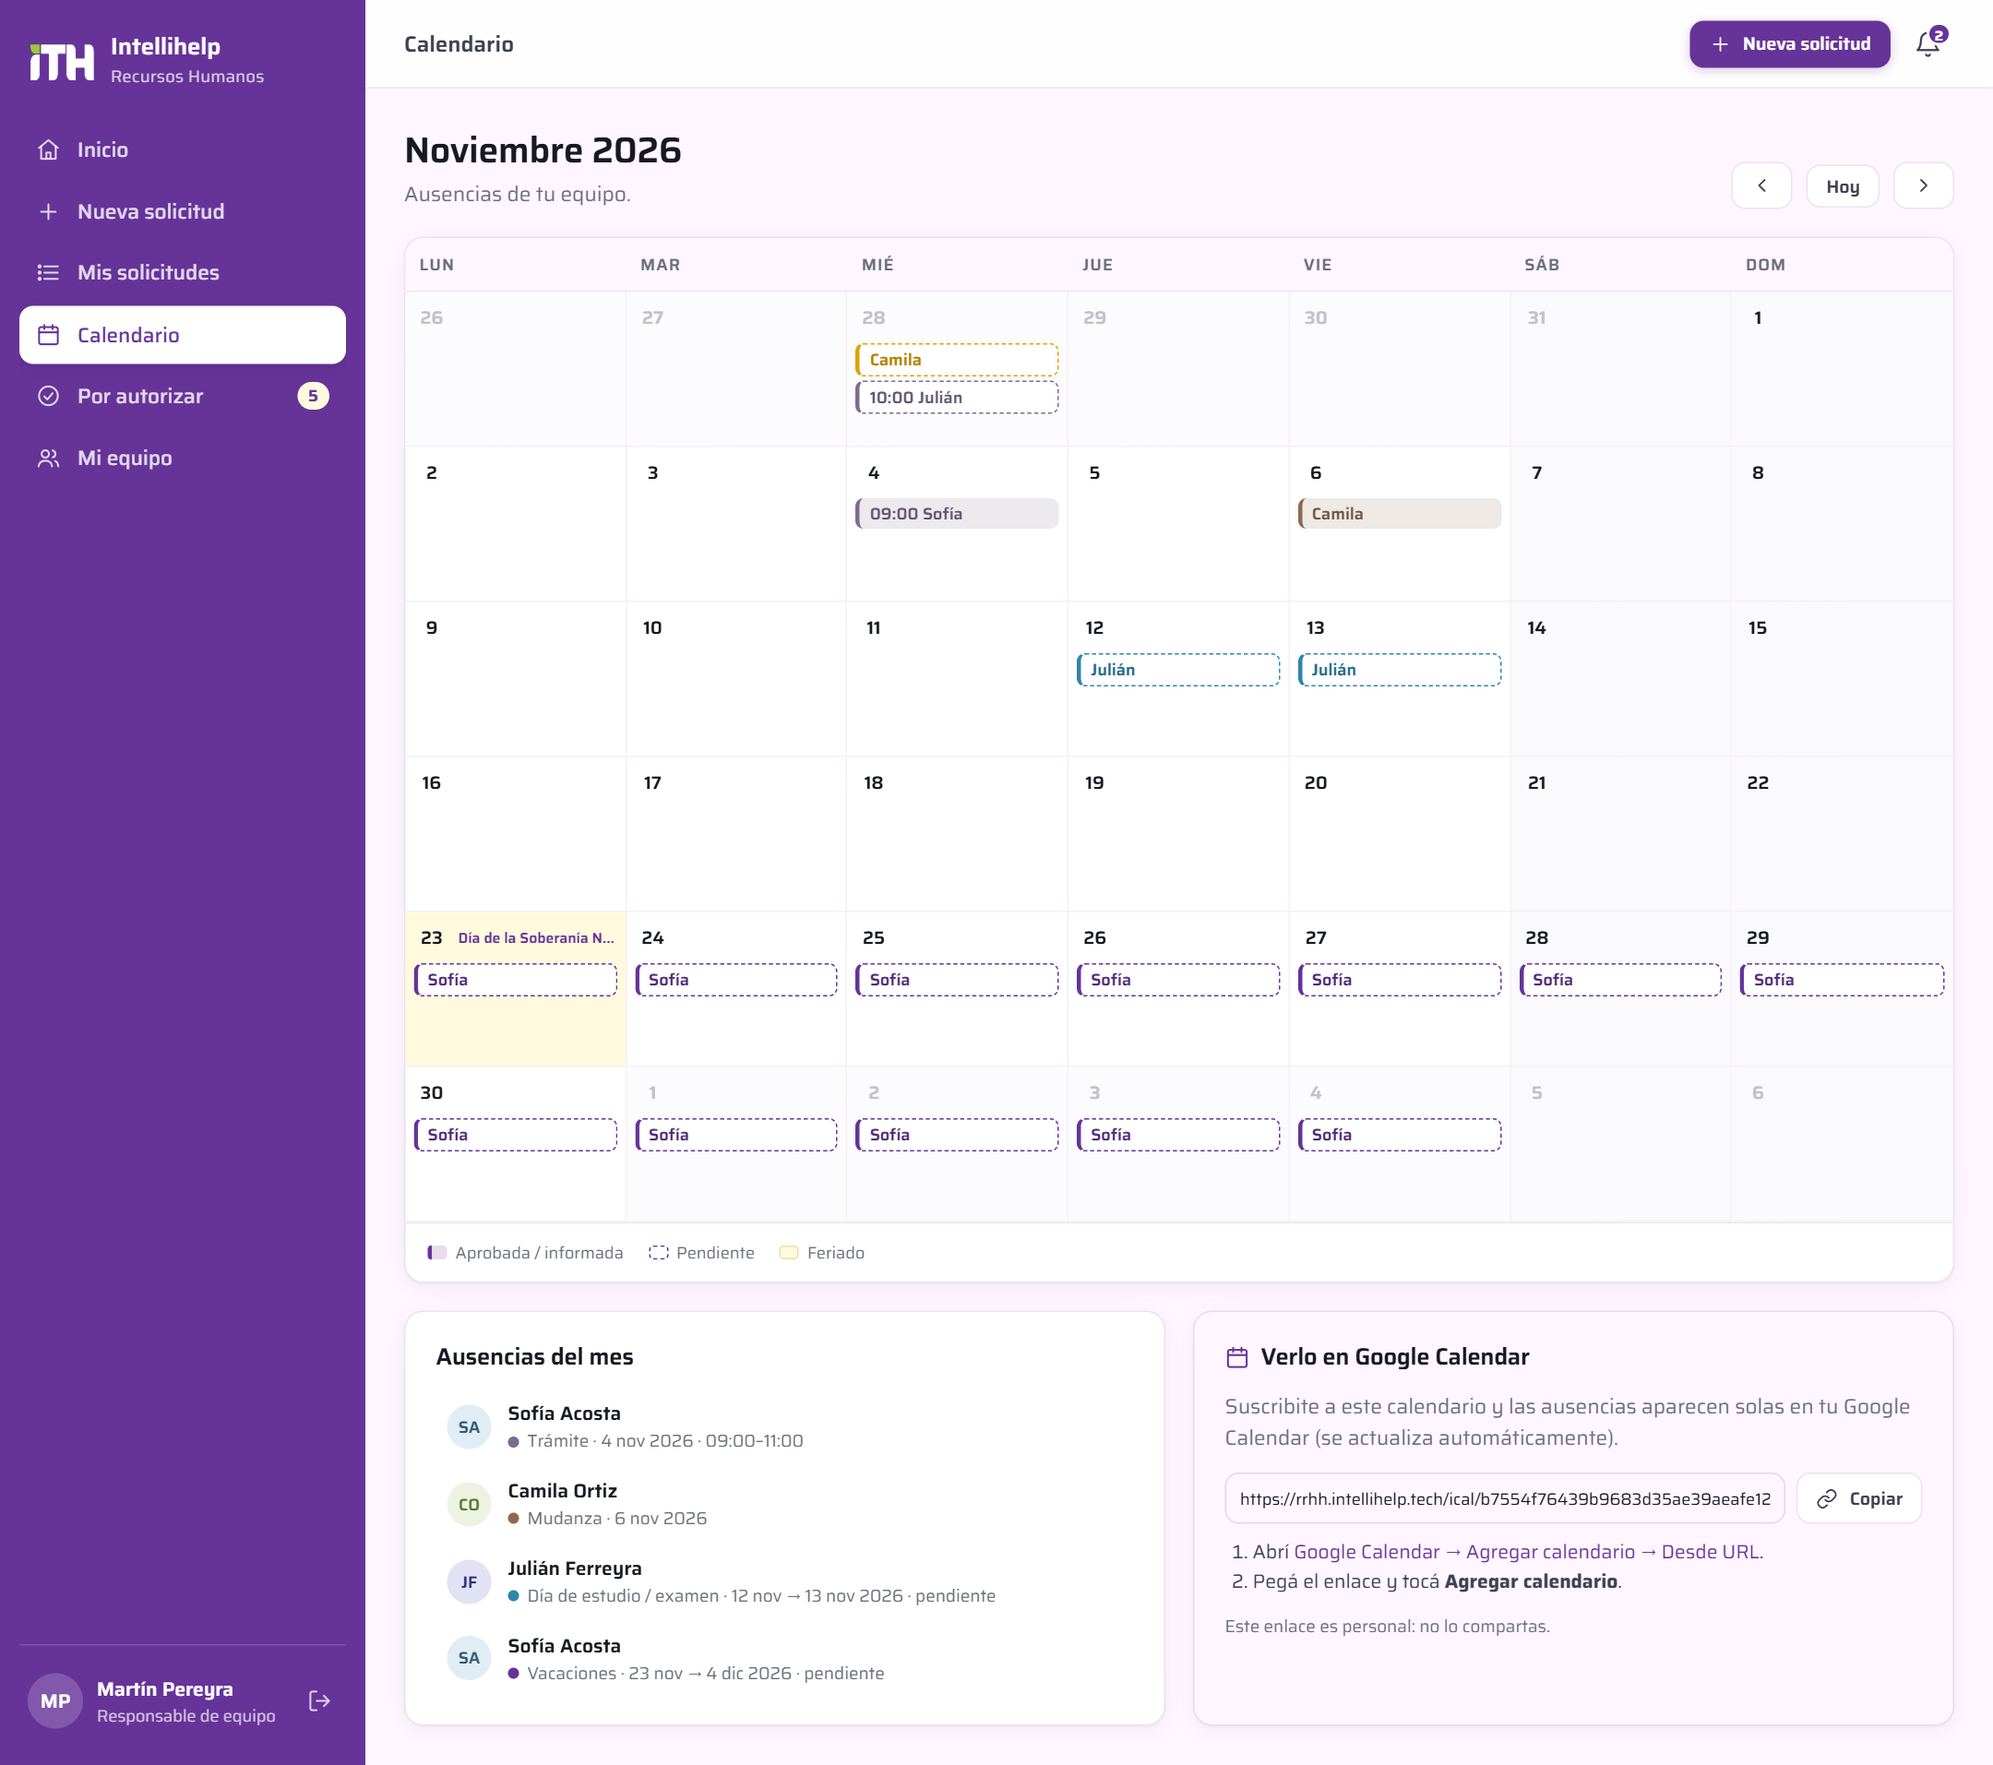
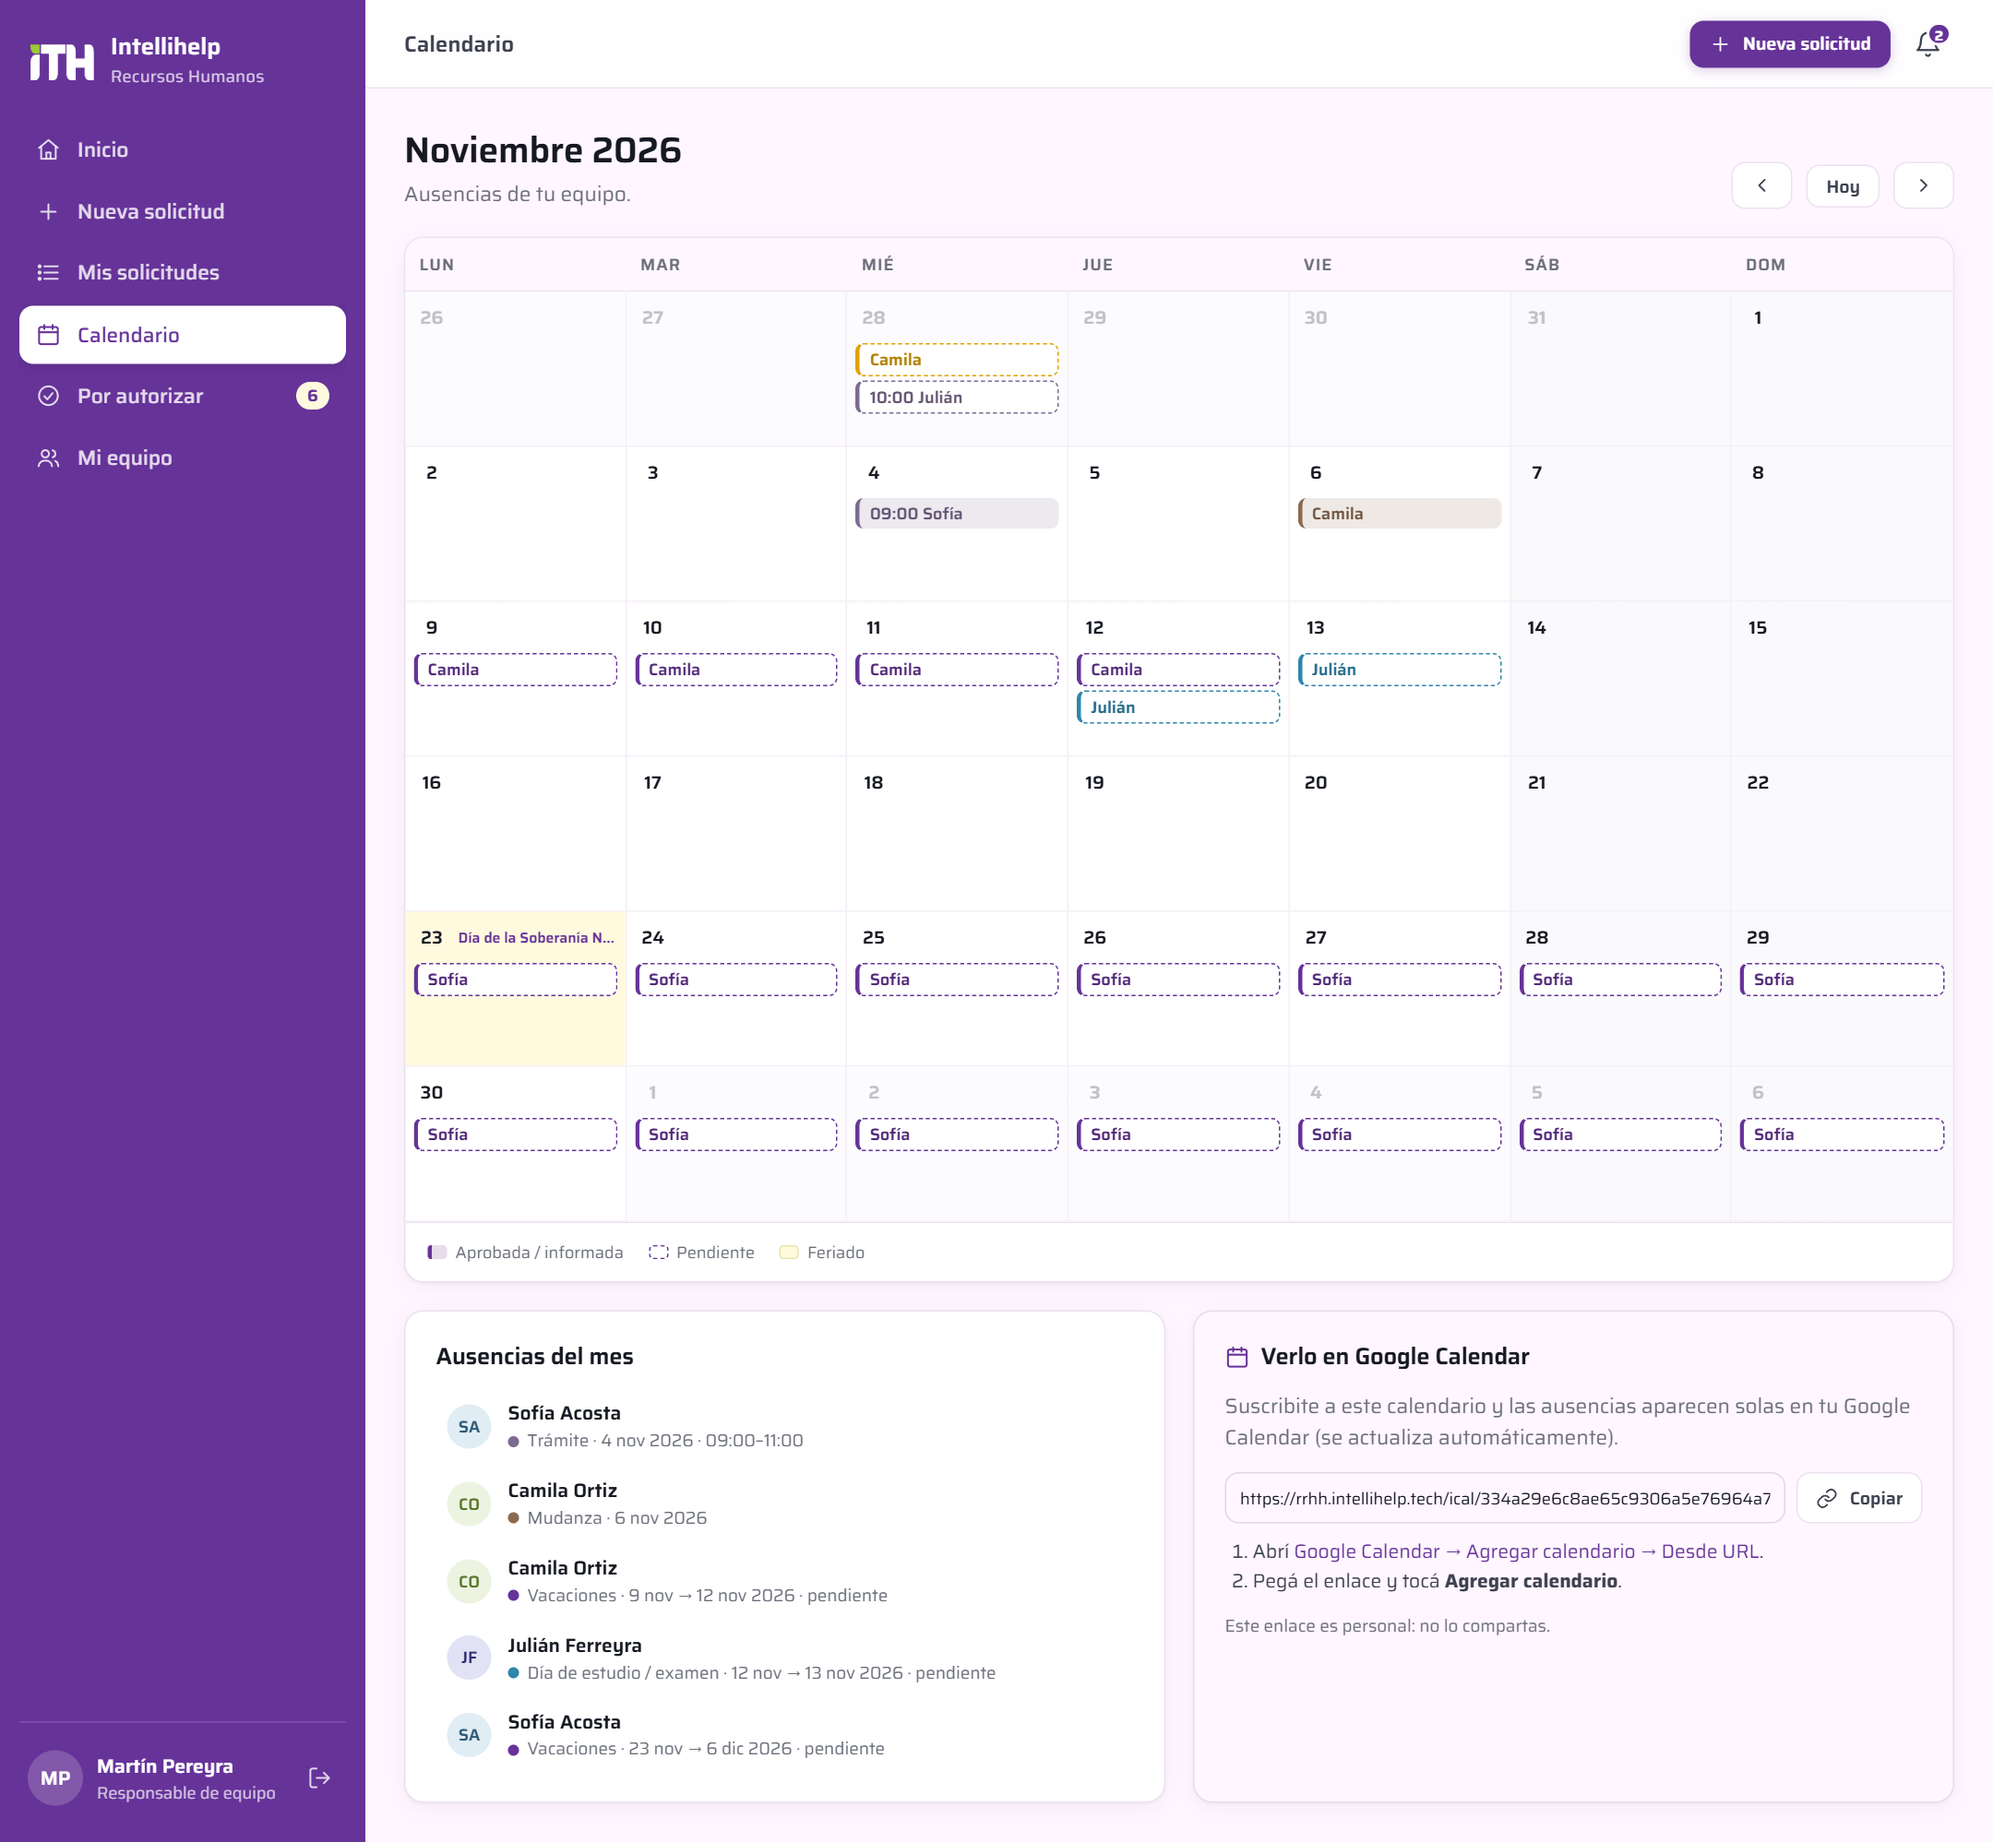
Pruebas de la regla del fin de semana y de cuentas sin confirmar; capturas y README actualizados

diff --git a/app/lib/leave.php b/app/lib/leave.php
@@ -260,13 +260,13 @@ function validate_request(array $user, array $type, string $from, string $to, ?i
     $errors = [];
     $warnings = [];
     if (!valid_date($from) || !valid_date($to)) {
-        return [['Las fechas no son válidas.'], [], 0];
+        return [['Las fechas no son válidas.'], [], 0, $to];
     }
     if ($to < $from) {
-        return [['La fecha de fin no puede ser anterior a la de inicio.'], [], 0];
+        return [['La fecha de fin no puede ser anterior a la de inicio.'], [], 0, $to];
     }
     if ($from < date('Y-m-d')) {
-        return [['No se pueden cargar licencias con fechas pasadas: elegí hoy o una fecha futura.'], [], 0];
+        return [['No se pueden cargar licencias con fechas pasadas: elegí hoy o una fecha futura.'], [], 0, $to];
     }
     if (substr($from, 0, 4) !== substr($to, 0, 4)) {
         $errors[] = 'La solicitud no puede abarcar dos años distintos. Cargá una solicitud por año.';

diff --git a/README.md b/README.md
@@ -75,6 +75,10 @@ Cada solicitud muestra su **seguimiento por etapas** (solicitada, autorización,
 
 <p align="center"><img src="docs/screenshots/decision-responsable.png" alt="Autorizar o rechazar" width="100%"></p>
 
+**Vacaciones y fin de semana.** Al tomar una semana completa (de lunes a viernes) se suma el fin de semana siguiente: cinco días hábiles cuentan como siete corridos y la licencia termina el domingo. Si la ausencia es de menos de una semana, quien autoriza decide si se computan solo esos días o la semana completa.
+
+<p align="center"><img src="docs/screenshots/semana-completa.png" alt="Computar la semana completa" width="100%"></p>
+
 <table>
   <tr>
     <td width="50%"><b>Por autorizar</b><br><img src="docs/screenshots/aprobaciones.png" alt="Bandeja de aprobaciones"></td>
@@ -121,6 +125,7 @@ Licencias aprobadas que impactan en vacaciones, con filtros por período y perso
 - **Trámites por horario**: día en un calendario y horario de salida y regreso; no impactan en las vacaciones.
 - Cálculo automático de días **corridos o hábiles**, descontando fines de semana y **feriados nacionales**.
 - **Días disponibles** por tipo de licencia; vacaciones calculadas según antigüedad conforme a la **LCT (art. 150)**: 14, 21, 28 o 35 días.
+- **Fin de semana en vacaciones**: una semana completa que termina el viernes suma el fin de semana siguiente (5 días hábiles = 7 corridos).
 - Solo las vacaciones descuentan días de vacaciones; en el **día personal**, quien autoriza decide si se descuenta.
 - La documentación (certificados y constancias) se entrega **después** de pedir la licencia: una vez autorizada o, si solo se informa, cuando se tenga, dentro de un **plazo** con recordatorio previo.
 - Validaciones: superposición de fechas, topes anuales y por solicitud, anticipación sugerida.
@@ -132,6 +137,7 @@ Licencias aprobadas que impactan en vacaciones, con filtros por período y perso
 ### Responsables y Recursos Humanos
 - Bandeja **Por autorizar** con aprobación en un clic; el rechazo exige un motivo.
 - **Descuento opcional de vacaciones** en el día personal, validando los días disponibles del colaborador.
+- **Semana completa a criterio**: en vacaciones de menos de una semana, quien autoriza elige computar solo los días pedidos o los 7 días.
 - Alerta de **superposición** con otras ausencias del equipo o del área.
 - Verificación u **observación de documentación**; una observación otorga un nuevo plazo de 2 días hábiles.
 - **Plazos de entrega de documentación** en días hábiles: automáticos según el tipo de licencia (contados desde el fin de la licencia o desde que se informa, nunca antes de que termine) o fijados por quien autoriza; aviso al colaborador antes del vencimiento y aviso al responsable y RRHH si vence.
@@ -142,7 +148,8 @@ Licencias aprobadas que impactan en vacaciones, con filtros por período y perso
 ### Administración
 - Alta de **personas** con rol, responsable directo, área, empresa, fecha de ingreso y días de vacaciones manuales opcionales.
 - **Autoregistro** de colaboradores: los correos del dominio corporativo se activan solos; los de **personal tercerizado** quedan pendientes de aprobación por RRHH.
-- **Tipos de licencia** configurables: autorización, documentación obligatoria y su plazo de entrega, topes, forma de conteo, descuento de vacaciones y color.
+- Cuentas sin confirmar: **reenvío del correo de confirmación** (también desde «¿La olvidaste?»), habilitación con contraseña temporal y eliminación de registros duplicados o con el correo mal escrito.
+- **Tipos de licencia** configurables: autorización, documentación obligatoria y su plazo de entrega, topes, forma de conteo, regla del fin de semana, descuento de vacaciones y color.
 - **Reportes** (solo administradores): exportación a Excel de las licencias que impactan en vacaciones y envío mensual automático a una o más casillas.
 - **Feriados** editables por año.
 - Configuración de **canales de notificación** con pruebas integradas (email, Google Chat, Google Calendar).
